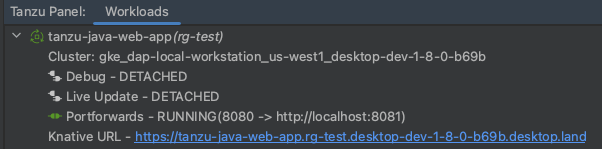
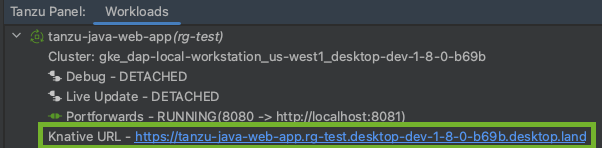
[TAAP-3017] Add hightlights to images and improve alt text

diff --git a/getting-started/iterate-new-app-intellij.hbs.md b/getting-started/iterate-new-app-intellij.hbs.md
@@ -334,9 +334,9 @@ To debug the cluster:
 
 1. Obtain the URL for your workload by doing one of the following:
 
-   - **If your app deploys a Knative URL:** Click the URL from the Workload panel.
+   - **If your app deploys a Knative URL:** Click the URL from the Workloads panel.
 
-      ![Knative url](../images/intellij-knative-url.png)
+      ![Screenshot of the Workloads panel with the Knative URL highlighted under the tanzu-java-web-app.](../images/intellij-knative-url.png)
 
    - **If your app does not deploy a Knative URL but exposes an app port:** Access your app through a
      `portforward`. For instructions, see [Use a portforward to access an application locally](../intellij-extension/using-the-extension.hbs.md#workload-port-forward).

diff --git a/getting-started/iterate-new-app-vscode.hbs.md b/getting-started/iterate-new-app-vscode.hbs.md
@@ -260,9 +260,9 @@ To debug the cluster:
 
 1. Access your app in your browser by doing one of the following:
 
-   - **If your app deploys a Knative URL:** Click the URL from the Workload panel.
+   - **If your app deploys a Knative URL:** Click the URL from the Workloads panel.
 
-      ![Knative url](../images/vscode-knative-url.png)
+      ![Screenshot of the Workloads panel with the Knative URL highlighted under the tanzu-java-web-app.](../images/vscode-knative-url.png)
 
    - **If your app does not deploy a Knative URL but exposes an app port:** Access your app through a
      `portforward`. For instructions, see [Use a `portforward` to access an application locally](../vscode-extension/using-the-extension.hbs.md#workload-port-forward)
